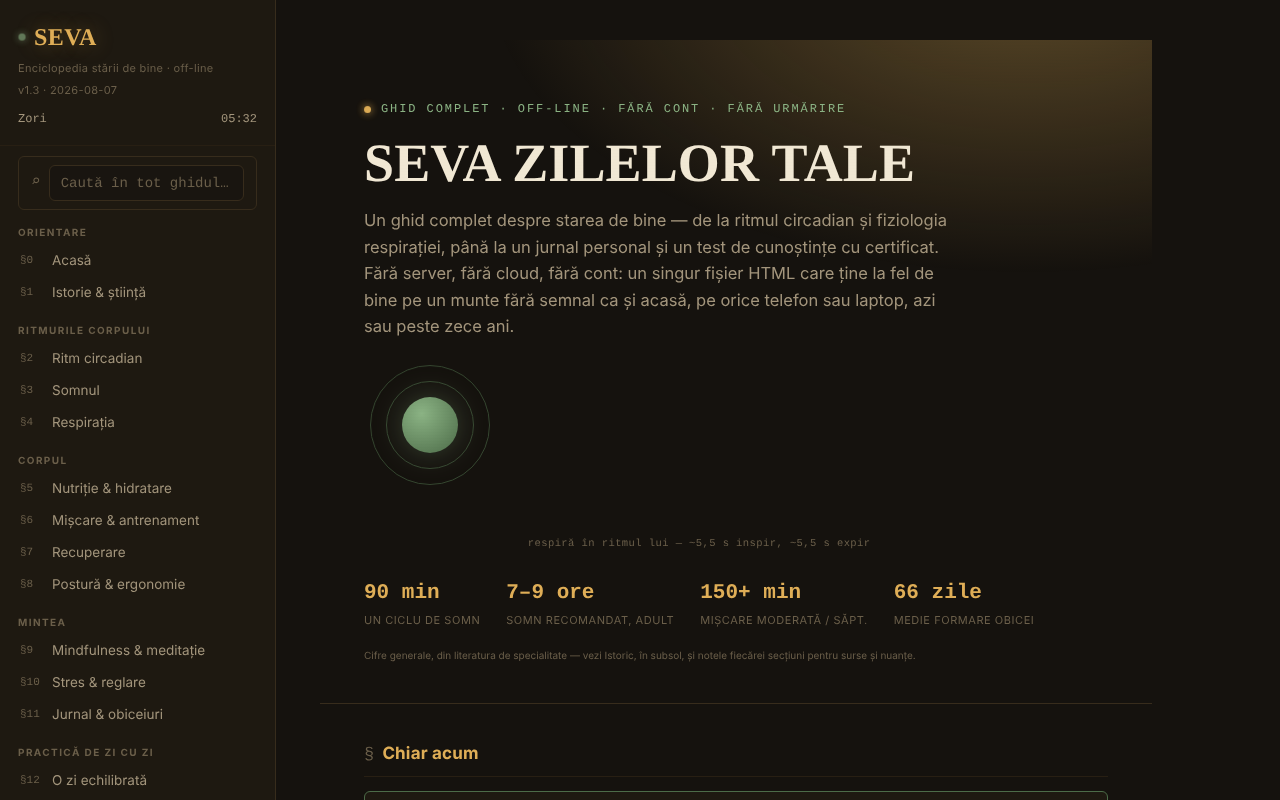
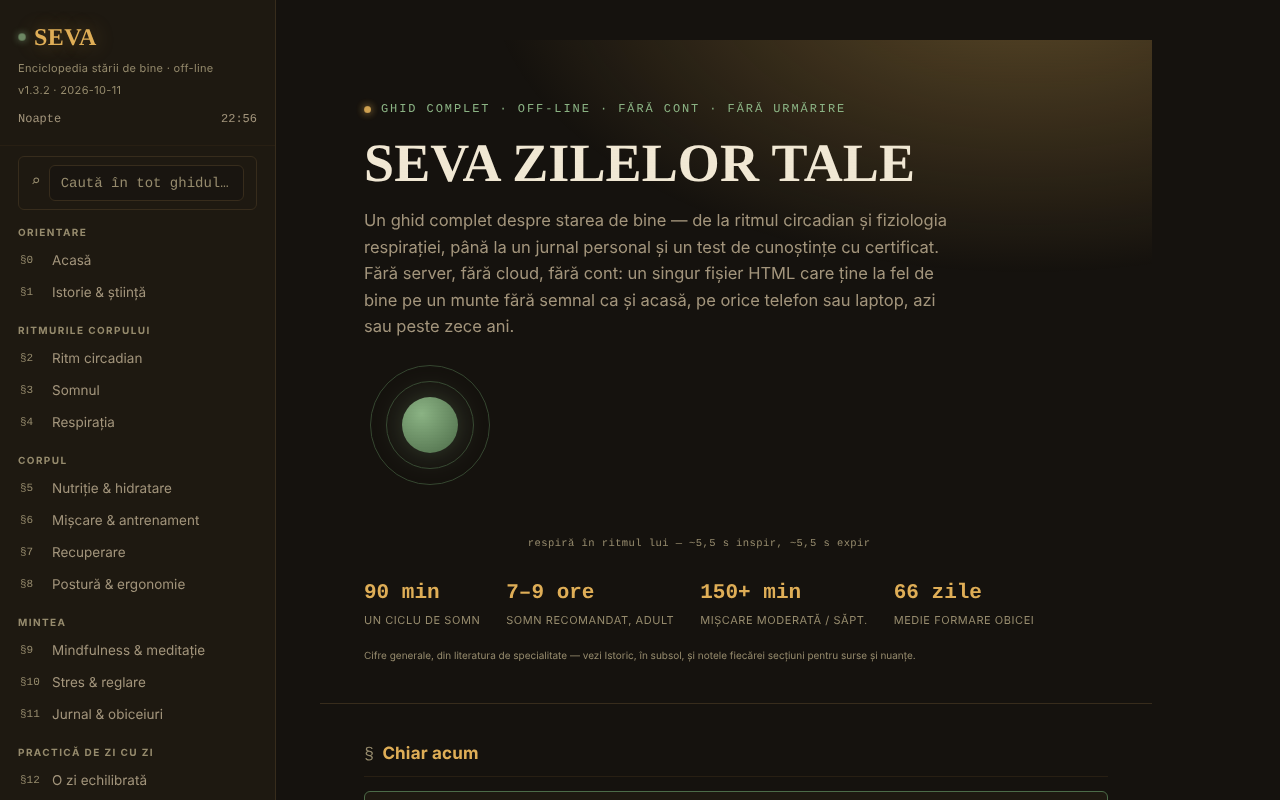
Runda 6 (11 octombrie 2026): reparații și îmbunătățiri
Claude-Session: https://claude.ai/code/session_01D2sCEb3hy3nutYexhUfQFs

diff --git a/index.html b/index.html
@@ -3,7 +3,7 @@
 <head>
 <meta charset="UTF-8">
 <meta name="viewport" content="width=device-width, initial-scale=1.0">
-<meta http-equiv="Content-Security-Policy" content="default-src 'none'; script-src 'unsafe-inline'; style-src 'unsafe-inline'; img-src data: blob:; media-src blob: data:; font-src data:; connect-src 'none'; object-src 'none'; base-uri 'none'; form-action 'none'">
+<meta http-equiv="Content-Security-Policy" content="default-src 'none'; script-src 'sha256-rKHLE4VB4+wUCaDyg5xDhKCEjKADoX3/wugjH9Mn7UQ='; style-src 'unsafe-inline'; img-src data: blob:; media-src blob: data:; font-src data:; connect-src 'none'; object-src 'none'; base-uri 'none'; form-action 'none'">
 <title>SEVA — Enciclopedia stării de bine</title>
 <meta name="description" content="Ghid complet, off-line, despre starea de bine: ritm circadian, somn, respirație, nutriție, mișcare, minte, obiceiuri și resurse — un singur fișier, fără cont, fără urmărire.">
 <style>
@@ -174,6 +174,22 @@ button{font-family:inherit;}
 }
 .themebtn.on{color:var(--sap);border-color:var(--sap-dim);}
 
+
+/* ---------- confort de citire (sesiune; nu se salvează nimic în browser) ---------- */
+.sidebar .foot-tools{flex-wrap:wrap;}
+.sidebar .foot-tools>*:not(.themebtn){flex:0 0 100%;}
+.readtools{display:flex;gap:6px;flex-wrap:wrap;}
+.readtools .themebtn{flex:1 1 40%;}
+.readtools .themebtn[aria-pressed="true"]{color:var(--sap);border-color:var(--sap-dim);}
+.readnote{font-size:10px;color:var(--ink-faint);margin:2px 0 0;}
+.sr-live{position:absolute;width:1px;height:1px;overflow:hidden;clip:rect(0 0 0 0);white-space:nowrap;}
+main{zoom:var(--rz,1);}
+[data-readable="1"]{--font-body:Verdana,Tahoma,"Trebuchet MS",sans-serif;--font-display:Verdana,Tahoma,"Trebuchet MS",sans-serif;}
+[data-readable="1"] main{letter-spacing:.025em;word-spacing:.08em;line-height:1.8;}
+[data-contrast="high"]{--ink:#fff;--ink-dim:#ece5d3;--ink-faint:#ddd5bf;--line:#8f7d5b;--line-soft:#6d5e43;--sap:#ffd98a;--leaf:#a9d6a0;--bloom:#f0a98c;}
+[data-theme="zi"][data-contrast="high"]{--ink:#000;--ink-dim:#1a1408;--ink-faint:#2b2210;--line:#4d3d1c;--line-soft:#7a6a46;--sap:#4a3000;--leaf:#1f4a20;--bloom:#6b2f1d;--bg:#fff;--bg-soft:#fff;--panel:#fff;--panel-2:#f1ede0;}
+@media (forced-colors:active){.themebtn.on,.readtools .themebtn[aria-pressed="true"],.navlink.active{outline:2px solid Highlight;}}
+
 /* ---------- mobile drawer ---------- */
 .scrim{display:none;position:fixed;inset:0;background:rgba(0,0,0,.6);z-index:800;}
 .scrim.show{display:block;}
@@ -308,7 +324,8 @@ label{display:block;font-size:11px;color:var(--ink-faint);letter-spacing:.05em;t
 
 /* ---------- circadian dial (signature instrument) ---------- */
 .dial-wrap{display:flex;align-items:center;gap:20px;flex-wrap:wrap;}
-.dial svg{overflow:visible;}
+.dial svg{overflow:visible;max-width:100%;height:auto;}
+.dial{max-width:100%;}
 .dial .needle{transform-origin:center;transition:transform .6s cubic-bezier(.3,1.2,.4,1);}
 .dial .readout{font-family:var(--font-mono);font-size:13px;color:var(--ink-dim);}
 .dial .readout b{color:var(--sap);font-size:20px;display:block;}
@@ -442,7 +459,7 @@ kbd{font-family:var(--font-mono);background:var(--panel-2);border:1px solid var(
   <div class="brandblock">
     <div class="brand"><span class="dot"></span> SEVA</div>
     <div class="tagline">Enciclopedia stării de bine · off-line</div>
-    <div class="tagline">v1.3.1 · 2026-10-11</div>
+    <div class="tagline">v1.3.2 · 2026-10-11</div>
     <div class="clock"><span id="dayPhaseLabel">— faza zilei —</span><span id="localClock">--:--</span></div>
   </div>
 
@@ -505,6 +522,14 @@ kbd{font-family:var(--font-mono);background:var(--panel-2);border:1px solid var(
   <div class="foot-tools">
     <button class="themebtn" id="themeBtnNoapte">☾ Noapte</button>
     <button class="themebtn" id="themeBtnZi">☀ Zi</button>
+    <div class="readtools" role="group" aria-label="Confort de citire">
+      <button type="button" class="themebtn" id="fsDown" aria-label="Micșorează textul">A−</button>
+      <button type="button" class="themebtn" id="fsUp" aria-label="Mărește textul">A+</button>
+      <button type="button" class="themebtn" id="readableBtn" aria-pressed="false">Text lizibil</button>
+      <button type="button" class="themebtn" id="contrastBtn" aria-pressed="false">Contrast</button>
+    </div>
+    <p class="readnote">Setările de confort nu se salvează (aplicația nu folosește stocarea browserului); apasă „/” pentru căutare.</p>
+    <div id="readStatus" class="sr-live" role="status" aria-live="polite"></div>
     <a id="reportLink" href="mailto:alexio@trom.tf" style="display:block;margin-top:10px;font-size:10.5px;color:var(--ink-faint);text-align:center;text-decoration:none;">🚩 Raportează o eroare</a>
     <div style="display:flex;gap:10px;justify-content:center;margin-top:3px;">
       <button type="button" id="reportCopyBtn" style="background:none;border:none;color:var(--ink-faint);text-decoration:underline;cursor:pointer;padding:0;font-size:10px;font-family:inherit;">copiază</button>
@@ -1666,7 +1691,7 @@ kbd{font-family:var(--font-mono);background:var(--panel-2);border:1px solid var(
     </div>
   </div>
   <div style="margin-top:18px;font-size:11.5px;color:var(--ink-faint);line-height:1.7;">
-    <b style="color:var(--ink-dim);">Istoric</b> — <span style="font-family:var(--font-mono);">v1.3.1</span> (2026-10-11): căutarea globală și glosarul ignoră diacriticele; ordinea titlurilor și reperele de accesibilitate corectate; politică CSP strictă. <span style="font-family:var(--font-mono);">v1.3</span> (2026-08-07): găsitor de frecvență de rezonanță + scor de coerență live, în §6 (testează 5 ritmuri de respirat, măsoară oscilația pulsului, trimite rezultatul direct în pacer-ul din §4); căutare globală, în bara laterală, peste titluri de secțiuni și glosar; istoric pentru testul BOLT, inclus automat în exportul jurnalului. <span style="font-family:var(--font-mono);">v1.2</span> (2026-08-07): sesiune ghidată narată vocal, care înlănțuie respirația, scanarea corporală și o reflecție finală (§9); card adaptiv „Chiar acum” pe Acasă, recalculat din faza circadiană + jurnal + provocare activă; generator de rutină din cronotip, în §12. Am luat în calcul și dictare vocală pentru jurnal, dar am renunțat — SpeechRecognition trimite de regulă audio pe servere externe, ceea ce ar contrazice promisiunea de mai jos; sinteza vocală (ieșire, nu intrare) rămâne singura folosire a vocii, integral locală. <span style="font-family:var(--font-mono);">v1.1</span> (2026-08-07): §19 nou (Tablou de bord & tipare — corelații calculate din jurnal); puls prin cameră cu biofeedback respirator, în §6; generator de zgomot ambiental (alb/roz/maro), în §13. Toate trei rulează integral local — camera și microfonul, dacă sunt cerute, nu trimit nimic în afara paginii. Puls-ul prin cameră e o estimare, nu un instrument medical: variază cu presiunea degetului, lumina și mișcarea. <span style="font-family:var(--font-mono);">v1.0</span> (2026-08-06): prima versiune — 19 secțiuni, cadran circadian, instrument de respirație, jurnal cu obiceiuri, provocări cu certificat, test de cunoștințe cu repetiție spațiată, glosar A–Z. Resursele de criză din §16 au fost verificate prin căutare la data publicării — dacă le citești mult mai târziu, confirmă orele de program pe antisuicid.ro, care se pot schimba.
+    <b style="color:var(--ink-dim);">Istoric</b> — <span style="font-family:var(--font-mono);">v1.3.2</span> (2026-10-11): confort de citire în bara laterală (mărime text, text lizibil, contrast ridicat — doar în sesiune, fără stocare), tema inițială urmează preferința sistemului, scurtătura „/” pentru căutare, bara de unelte din subsol aliniată pe mai multe rânduri. <span style="font-family:var(--font-mono);">v1.3.1</span> (2026-10-11): căutarea globală și glosarul ignoră diacriticele; ordinea titlurilor și reperele de accesibilitate corectate; politică CSP strictă. <span style="font-family:var(--font-mono);">v1.3</span> (2026-08-07): găsitor de frecvență de rezonanță + scor de coerență live, în §6 (testează 5 ritmuri de respirat, măsoară oscilația pulsului, trimite rezultatul direct în pacer-ul din §4); căutare globală, în bara laterală, peste titluri de secțiuni și glosar; istoric pentru testul BOLT, inclus automat în exportul jurnalului. <span style="font-family:var(--font-mono);">v1.2</span> (2026-08-07): sesiune ghidată narată vocal, care înlănțuie respirația, scanarea corporală și o reflecție finală (§9); card adaptiv „Chiar acum” pe Acasă, recalculat din faza circadiană + jurnal + provocare activă; generator de rutină din cronotip, în §12. Am luat în calcul și dictare vocală pentru jurnal, dar am renunțat — SpeechRecognition trimite de regulă audio pe servere externe, ceea ce ar contrazice promisiunea de mai jos; sinteza vocală (ieșire, nu intrare) rămâne singura folosire a vocii, integral locală. <span style="font-family:var(--font-mono);">v1.1</span> (2026-08-07): §19 nou (Tablou de bord & tipare — corelații calculate din jurnal); puls prin cameră cu biofeedback respirator, în §6; generator de zgomot ambiental (alb/roz/maro), în §13. Toate trei rulează integral local — camera și microfonul, dacă sunt cerute, nu trimit nimic în afara paginii. Puls-ul prin cameră e o estimare, nu un instrument medical: variază cu presiunea degetului, lumina și mișcarea. <span style="font-family:var(--font-mono);">v1.0</span> (2026-08-06): prima versiune — 19 secțiuni, cadran circadian, instrument de respirație, jurnal cu obiceiuri, provocări cu certificat, test de cunoștințe cu repetiție spațiată, glosar A–Z. Resursele de criză din §16 au fost verificate prin căutare la data publicării — dacă le citești mult mai târziu, confirmă orele de program pe antisuicid.ro, care se pot schimba.
   </div>
   <div class="legal">SEVA nu înlocuiește îngrijirea medicală, psihologică sau nutrițională de specialitate — e o bibliotecă de referință și un set de unelte de auto-observare. Nicio informație introdusă aici nu pleacă de pe dispozitivul tău.</div>
 </footer>
@@ -2942,7 +2967,51 @@ function initTheme(){
     const isZi = document.documentElement.getAttribute('data-theme')==='zi';
     setTheme(isZi?'noapte':'zi');
   });
-  setTheme('noapte');
+  setTheme(window.matchMedia && matchMedia('(prefers-color-scheme: light)').matches ? 'zi' : 'noapte');
+}
+
+/* ============================================================
+   Confort de citire (mărime text, text lizibil, contrast) + scurtătură „/”
+   Doar în memorie, în sesiunea curentă — fără stocare în browser.
+   ============================================================ */
+const READ_ZOOM = [1, 1.15, 1.3, 1.5];
+let readZoomIdx = 0;
+function applyReadZoom(announce){
+  document.documentElement.style.setProperty('--rz', String(READ_ZOOM[readZoomIdx]));
+  $('#fsDown').disabled = readZoomIdx===0;
+  $('#fsUp').disabled = readZoomIdx===READ_ZOOM.length-1;
+  if(announce) $('#readStatus').textContent = 'Mărime text: '+Math.round(READ_ZOOM[readZoomIdx]*100)+'%';
+}
+function setToggle(btn, attr, on, label){
+  if(on) document.documentElement.setAttribute(attr,'1'); else document.documentElement.removeAttribute(attr);
+  btn.setAttribute('aria-pressed', on?'true':'false');
+  if(label) $('#readStatus').textContent = label+(on?': activat':': dezactivat');
+}
+function initReading(){
+  $('#fsDown').addEventListener('click', ()=>{ if(readZoomIdx>0){ readZoomIdx--; applyReadZoom(true); } });
+  $('#fsUp').addEventListener('click', ()=>{ if(readZoomIdx<READ_ZOOM.length-1){ readZoomIdx++; applyReadZoom(true); } });
+  $('#readableBtn').addEventListener('click', ()=>{
+    setToggle($('#readableBtn'),'data-readable',$('#readableBtn').getAttribute('aria-pressed')!=='true','Text lizibil');
+  });
+  const hc = $('#contrastBtn');
+  const applyContrast = (on, label)=>{
+    if(on) document.documentElement.setAttribute('data-contrast','high'); else document.documentElement.removeAttribute('data-contrast');
+    hc.setAttribute('aria-pressed', on?'true':'false');
+    if(label) $('#readStatus').textContent = label+(on?': activat':': dezactivat');
+  };
+  hc.addEventListener('click', ()=> applyContrast(hc.getAttribute('aria-pressed')!=='true','Contrast ridicat'));
+  // Respectă preferințele sistemului la pornire
+  if(window.matchMedia && matchMedia('(prefers-contrast: more)').matches) applyContrast(true);
+  applyReadZoom(false);
+  document.addEventListener('keydown', e=>{
+    if(e.key!=='/' || e.ctrlKey || e.metaKey || e.altKey) return;
+    const tg = e.target && e.target.tagName;
+    if(tg==='INPUT' || tg==='TEXTAREA' || tg==='SELECT' || (e.target && e.target.isContentEditable)) return;
+    e.preventDefault();
+    const db = $('#drawerBtn');
+    if(db && db.offsetParent!==null && !$('#sidebar').classList.contains('open')) openDrawer();
+    $('#globalSearchInput').focus();
+  });
 }
 
 /* ============================================================
@@ -3066,6 +3135,7 @@ function initAll(){
   // Navigare, temă, sertar mobil
   initNav();
   initTheme();
+  initReading();
   initDrawer();
   initReport();
   initPrint();

diff --git a/README.md b/README.md
@@ -4,7 +4,7 @@ Ghid complet despre starea de bine, într-un singur fișier HTML, fără cont ș
 
 **Live:** https://chiuta.github.io/SEVA/
 
-**Ultima actualizare:** 11 octombrie 2026 · versiune 1.3.1
+**Ultima actualizare:** 11 octombrie 2026 · versiune 1.3.2
 
 ![Captura de ecran](screenshot.png)
 
@@ -23,6 +23,8 @@ Conținutul este organizat în secțiuni numerotate (meniu lateral, ☰ pe mobil
 - Practică de zi cu zi: O zi echilibrată, Trusa de wellness, Calculatoare & unelte, Provocări & obiective.
 - Resurse: Când ai nevoie de ajutor, Test de cunoștințe (cu certificat de finalizare), Glosar A-Z.
 - Perspectivă: Tablou de bord & tipare.
+- Confort de citire în bara laterală: mărime text (A−/A+, 100–150%), „Text lizibil” (font sans-serif cu spațiere mărită) și „Contrast” ridicat; se activează automat contrastul ridicat dacă sistemul îl cere (`prefers-contrast: more`). Setările există doar în sesiune (nu se salvează nimic în browser).
+- Tema inițială urmează preferința sistemului (`prefers-color-scheme`); scurtătura `/` mută focusul pe căutarea globală.
 - Căutare globală, temă Zi/Noapte, indicator „faza zilei", tipărirea secțiunii curente, „Verifică integritatea fișierului" (SHA-256 al DOM-ului la încărcare), „Din ce e făcut fișierul" și „Raportează o eroare" (link GitHub).
 - Jurnalul, notițele personale, progresul de repetiție spațiată și certificatul se pot exporta/importa ca fișiere JSON.
 
@@ -47,6 +49,12 @@ Descarcă `index.html` și deschide-l în browser; nu necesită internet (link-u
 
 ## Istoric / Changelog
 
+### 11 octombrie 2026 (v1.3.2)
+- Confort de citire (mărime text, text lizibil, contrast ridicat), tema inițială după preferința sistemului, scurtătura `/`, suport `forced-colors`.
+- Corectat aspectul barei de unelte din subsol (linkurile de raportare/tipărire/integritate erau strânse pe un singur rând); cadranele circadiene se micșorează pe ecrane înguste.
+- Politica CSP: `script-src` cu hash în loc de `'unsafe-inline'`.
+- Captura de ecran actualizată.
+
 ### 11 octombrie 2026 (v1.3.1)
 - Căutarea globală și glosarul ignoră acum diacriticele („meditatie” găsește „meditație”).
 - Accesibilitate: bară superioară mobilă ca <header>, ordinea titlurilor corectată (axe: 0 violări).
@@ -62,7 +70,7 @@ Alexio — Alexandru-Ionuț Chiuță, contact: alexio@trom.tf
 
 ## English summary
 
-SEVA is a single-file Romanian-language encyclopedia of well-being: circadian rhythm, sleep, breathing, nutrition, movement, recovery, posture, mindfulness, stress, habits, with calculators, a journal, a knowledge quiz with a completion certificate and a glossary. It is not medical advice. It stores nothing in the browser (journal, notes and progress are exported/imported as JSON) and makes no network requests.
+SEVA is a single-file Romanian-language encyclopedia of well-being: circadian rhythm, sleep, breathing, nutrition, movement, recovery, posture, mindfulness, stress, habits, with calculators, a journal, a knowledge quiz with a completion certificate and a glossary. It is not medical advice. It has reading-comfort options (text size, readable font, high contrast; session only). It stores nothing in the browser (journal, notes and progress are exported/imported as JSON) and makes no network requests.
 
 ## Audit
 
